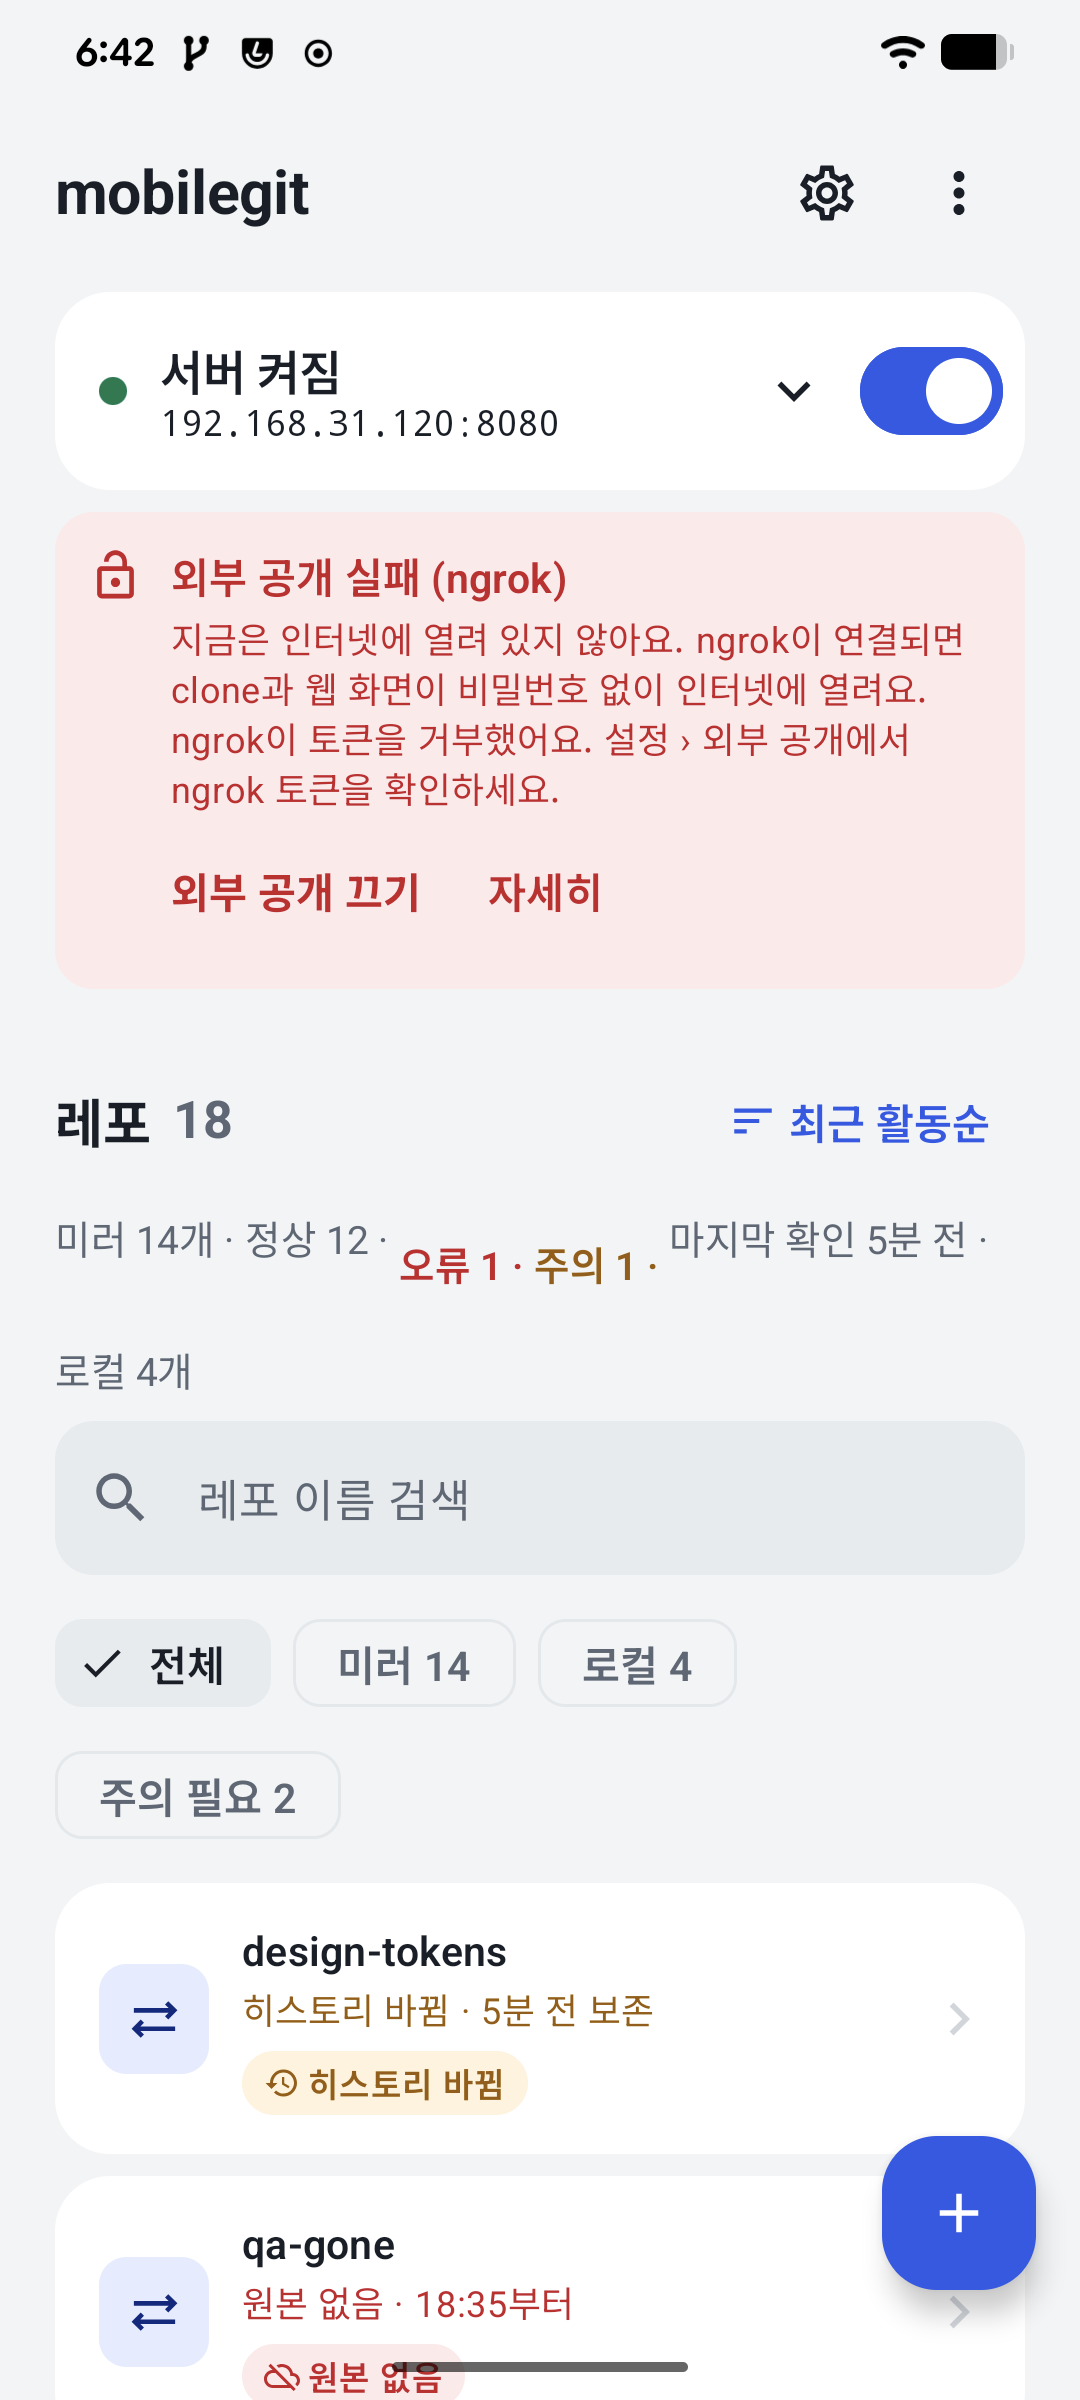
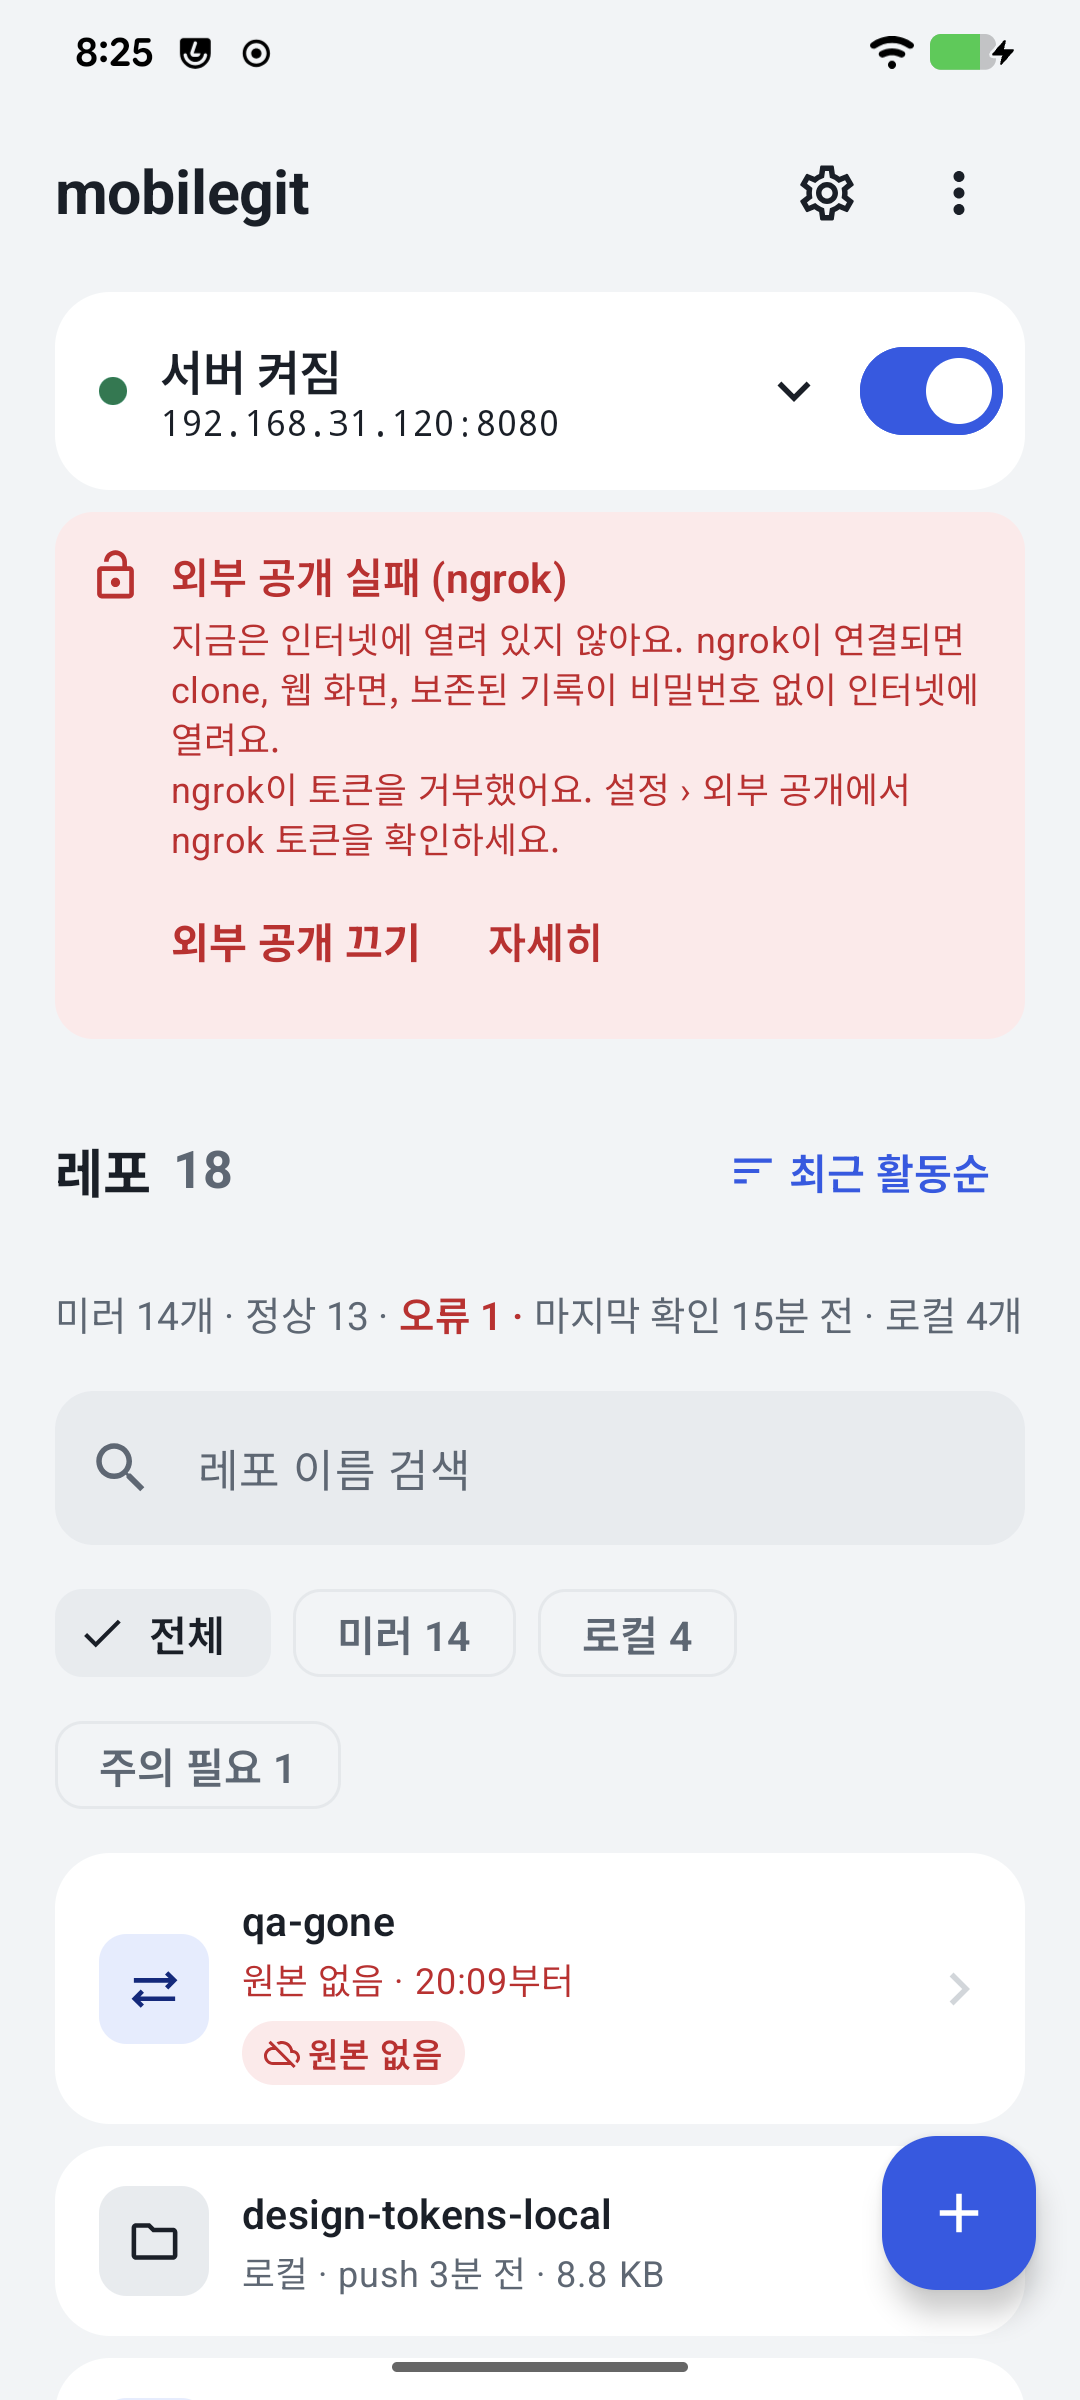
QA: 2차 코드 리뷰 반영 회귀 결과와 최종 스크린샷 갱신

diff --git a/docs/qa/round2/report.md b/docs/qa/round2/report.md
@@ -290,3 +290,43 @@ RV2-11 알림 아이콘:
 갱신한 스크린샷: `docs/qa/round2-final/screenshots/`의 01, 05, 06, 08, 19. `docs/images/screen-1.png`는 새 01로 바꿨다. screen-2(=09)와 screen-3(=20)은 화면이 바뀌지 않아 그대로 둔다.
 
 리뷰 반영 집계는 이제 통과 11 (RV2-01 포함), 부분 1 (RV2-10: 앱 200% 글꼴·대비 수치 미확인), 미해결 1 (RV2-11 알림 아이콘, 재부팅 없이 확인 불가)이다. 열린 결함은 없다.
+
+## 코드 리뷰 반영 회귀 (코어 ba3959c..063f0b5, 안드로이드 a2fc3cc, 웹 d823460)
+
+같은 기기 d418f2d1에 `installDebug`로 설치했다 (데이터 유지). 사용한 테스트 레포는 다음과 같다:
+- PC 테스트 원본의 미러 `design-tokens` (PR 브랜치 받기 켬)
+- 원본 없음용 미러 `qa-gone`
+- `design-tokens`에서 만든 로컬 레포 `design-tokens-local`
+
+셋 다 지웠다 (레포 15개, 웹 overview 미러 12 · 정상 12 · 주의 0). ngrok은 가짜 토큰 `qa-fake-token`으로만 시험했다. 끝난 뒤 settings.json은 ngrok 꺼짐, 토큰 없음, 비밀번호 요구 항상(익명 읽기 꺼짐), 포트 8080, 서버 켜짐이다. 내보내기 시험 파일은 폰에서 지웠고 adb reverse도 없앴다.
+
+| 항목 | 결과 | 근거 |
+|---|---|---|
+| R2SEC-01 ngrok 루프백 포트 | 통과 | `/proc/net`은 막혀 있어 `adb shell`에서 `nc -z`로 127.0.0.1의 임시 포트(32768~60999)를 훑어 찾았다. 앱 서버 포트는 `WWW-Authenticate: Basic realm="mobilegit"`로 확인했다. ngrok 꺼짐 + "push할 때만"일 때 결과는 다음과 같다. 그 포트로 익명 `GET /chalk.git/info/refs?service=git-upload-pack`은 401이다. 같은 요청이 와이파이 8080에서는 200이다 (push할 때만의 정상 동작). ngrok 켜짐 + 터널 실패(가짜 토큰)에서도 새 루프백 포트는 401이었다. 확인 뒤 "항상"으로 되돌렸다 |
+| 보존 기록: 배지·화면 | 통과 | 원본에서 main 강제 push, v1.1.0 태그 이동, release/1.x 삭제, refs/pull/1/head 비-fast-forward 변경 뒤 업데이트했다. 결과: 보존 3개, 상세 "히스토리 바뀜" 배지, A-15에 히스토리 바뀜·브랜치 삭제됨·태그 이동됨, 업데이트 이력 자세히에 네 변화(PR은 "PR 브랜치 바뀜 pull/1/head 5f04a9e → 96c817b") |
+| 보존 기록: 마지막 보존 시각 | 통과 | A-15를 연 뒤 배지는 사라지고 상세 "보존된 기록 3개 · 마지막 보존 20:06"은 남는다. 강제 종료 뒤 다시 열어도 같다 |
+| 보존 기록: W-05 "PR 브랜치 바뀜" | 부분 | 지금 코어는 PR 브랜치를 보존하지 않는다 (R2GIT-05, `Models.kt` 92행, 이력의 `archivedAs` null). 그래서 `/archives`에는 REVIEW 항목이 생기지 않고, W-05에는 FORCED·DELETED·TAG_MOVED 세 줄만 나온다. 웹의 REVIEW → "PR 브랜치 바뀜"(중립) 대응은 코드와 `archives.test.ts`에만 있고, 실제 데이터로는 볼 수 없었다. 앱 이력에서는 "PR 브랜치 바뀜"이 보인다 |
+| 실패 판정: 끊긴 연결 | 통과 | 원본 서버만 끄고 adb reverse 유지 → `NETWORK`, "업데이트 실패 · 네트워크 오류" |
+| 실패 판정: 진짜 404 | 통과 | `qa-gone` 원본 폴더를 숨기고 서버 켬 → `ORIGIN_GONE`, "원본 없음" |
+| 실패 판정: 원본 없음 뒤 네트워크 오류 | 통과 | 원본 없음인 `qa-gone`에서 서버를 끔(끊긴 연결)과 adb reverse 제거(연결 거부) → 둘 다 이력은 `NETWORK`인데 originStatus GONE 유지, 행 "원본 없음 · 20:09부터" |
+| 실패 판정: 가짜 로그인 페이지 | 통과 | 9418에 모든 요청에 200 `text/html` 로그인 화면을 주는 서버를 띄웠다. 본문에 일부러 "Repository not found", "401 Unauthorized"를 넣었다. 결과는 `NETWORK` (`PackProtocolException: invalid advertisement of <!doctype html>…`), 행 "업데이트 실패 · 네트워크 오류". 원본 없음이나 토큰 확인 필요가 아니다 |
+| ngrok 위험 대화상자 새 문구 | 통과 | 두 대화상자 본문에 "보존된 기록(강제 push로 지워진 커밋 포함), 원본 주소, 레포 상태도 보여요."가 더해졌다 (R2SEC-04). 취소는 저장 안 함. "비밀번호 켜고 공개"는 외부 공개 켜짐 + 항상. "비밀번호 없이 공개"는 허용. 비밀번호 요구 설명 "clone과 웹 화면(보존된 기록 포함)은…", 메인 배너 "…clone, 웹 화면, 보존된 기록이 비밀번호 없이 인터넷에 열려요.", 알림 "외부 공개 실패: ngrok 토큰 확인 필요". 샷 12~16 |
+| 로컬 레포 만들기 진행 중 시트 | 부분 | 복사해서 만들기를 누른 직후 BACK 두 번을 보냈지만 작은 레포라 바로 끝나 진행 중 상태를 화면에서 잡지 못했다. 끝난 뒤에는 `design-tokens-local`이 만들어지고 화면이 정상으로 돌아왔다. 코드(`RepoDetailScreen.kt` 578~609행)에서 진행 중에는 BACK·아래로 끌기·바깥 누르기를 막고 버튼을 끄는 것을 확인했다 |
+| 웹 800 / 1100px | 통과 | 보존된 기록: 800px은 쌓은 목록(표 0개), 1100px은 표 1개. 보존된 커밋 SHA는 글자+복사, "지금 원본"만 커밋 로그 링크 (R2WEB-09). 샷 20, 21 |
+| 웹 다크 모드·200% | 통과 | 다크(배경 rgb(17,18,21))와 200%(720px 뷰포트)에서 목록·레포 홈·보존된 기록 모두 가로 넘침 없음, 콘솔 오류 0. 200%는 목록 형태. 샷 26 |
+| 회귀: 미러 추가 | 통과 | 공유 인텐트로 주소 넣기 → 연결 확인 "브랜치·태그 5개 받기 · PR 브랜치 1개 제외" → 고급 "PR 브랜치도 받기" 켬 → 범위 줄이 "…PR 브랜치 받기"로 바뀜 → 추가 |
+| 회귀: 업데이트 | 통과 | 위 보존 기록·실패 판정 시나리오 |
+| 회귀: clone·push | 통과 | PC에서 `design-tokens-local` clone, 커밋 push 후 서버 main이 같은 SHA. 미러로 push하면 읽기 전용 안내로 거부 |
+| 회귀: 웹 보기 | 통과 | 목록, 레포 홈, 보존된 기록, 800·1100·다크·200% |
+| 회귀: 내보내기 저장과 알림 | 통과 | 레포별 git bundle을 Download/qa에 저장하면 파일이 생긴다 (3.5 KB). 작은 파일이라 홈으로 나가기 전에 끝나 알림은 없었다. 전체 백업(3.9 MB)은 저장 직후 홈으로 나가면 "내보내기 완료 / qa 폴더에 mobilegit-backup-20261025.zip 파일로 저장했어요. 암호화되지 않은 파일이에요." 알림이 뜬다 |
+
+관찰:
+- 미러로 push했을 때 git이 보여 주는 거절 문구는 영어이고 "Fork it in the mobilegit app to push."라고 쓴다. 앱 용어("로컬 레포 만들기")와 다르다. git 프로토콜 오류 문자열이라 1차부터 그대로다.
+- 확인 도중 실수로 설정 화면에서 탭이 몇 번 들어갔다. 설정 값은 settings.json으로 다시 봤고 바뀐 것이 없었다.
+
+갱신한 스크린샷 (`docs/qa/round2-final/screenshots/`):
+- 바꿈: 12~16(새 문구), 20(SHA 표시), 21(800px 목록으로 바꾸고 이름도 `21-web-archives-800.png`로 변경)
+- 추가: 25(PR 브랜치 바뀜 이력), 26(웹 다크 모드)
+- `docs/images/screen-3.png`는 새 20으로 바꿨다. screen-1(01)과 screen-2(09)는 화면이 바뀌지 않아 그대로 둔다.
+
+집계: 통과 15, 부분 2 (W-05의 PR 브랜치 바뀜은 실데이터로 생기지 않음, 진행 중 시트는 너무 빨라 코드로만 확인), 실패 0. 새 결함은 없다.

diff --git a/docs/qa/round2-final/screenshots/README.md b/docs/qa/round2-final/screenshots/README.md
@@ -1,6 +1,6 @@
 # 2차 리뷰 반영 뒤 대표 스크린샷
 
-기기 d418f2d1 (393dp 폭, 라이트 모드), 빌드 7fe5bde, 01·05·06·08·19는 30f70e8. 오류·주의·지연·멈춤 상태는 PC 테스트 원본(`origin_server.py`)으로 만든 테스트 미러 `design-tokens`, `qa-gone`과 meta 시각 조정으로 만들었다. 테스트 레포는 모두 지웠고 meta는 되돌렸다. ngrok 화면은 가짜 토큰 `qa-fake-token`으로 만든 실패 상태다. 와이파이 이름이 보이는 빠른 설정 화면은 넣지 않았다 (18번은 알림 부분만 잘라 냄).
+기기 d418f2d1 (393dp 폭, 라이트 모드), 빌드 7fe5bde, 01·05·06·08·19는 30f70e8, 12~16·20·21·25·26은 d823460. 오류·주의·지연·멈춤 상태는 PC 테스트 원본(`origin_server.py`)으로 만든 테스트 미러 `design-tokens`, `qa-gone`과 meta 시각 조정으로 만들었다. 테스트 레포는 모두 지웠고 meta는 되돌렸다. ngrok 화면은 가짜 토큰 `qa-fake-token`으로 만든 실패 상태다. 와이파이 이름이 보이는 빠른 설정 화면은 넣지 않았다 (18번은 알림 부분만 잘라 냄).
 
 | 파일 | 보여 주는 것 | 기준 |
 |---|---|---|
@@ -15,16 +15,18 @@
 | 09-a15-archives.png | "design-tokens 보존된 기록", 절대 시각만 | RV2-01 |
 | 10-settings-auth-options.png | 비밀번호 요구 "항상 / push할 때만 / 안 함", 경로별 보안 색 점 옆 글자(주의·안전·위험) | RV2-02, RV2-10 |
 | 11-settings-public-section.png | "외부 공개 (ngrok)" 섹션이 연결 경로별 보안 바로 아래 | RV2-04 |
-| 12-dialog-turn-on-public.png | push할 때만에서 외부 공개 켜기: "비밀번호 없이 외부 공개할까요?" / 비밀번호 켜고 공개 / 비밀번호 없이 공개 | RV2-03 |
-| 13-dialog-lower-auth-while-public.png | 외부 공개 중 비밀번호 요구 낮추기: "외부 공개 중에 비밀번호 요구를 줄일까요?" / 외부 공개 끄고 바꾸기 / 비밀번호 없이 공개 | RV2-03 |
-| 14-settings-pending-warning.png | 터널 실패 때 비밀번호 요구 아래 "ngrok이 연결되면 비밀번호 없이 인터넷에 열려요" | RV2-03 |
+| 12-dialog-turn-on-public.png | push할 때만에서 외부 공개 켜기: "비밀번호 없이 외부 공개할까요?", 본문에 "보존된 기록(강제 push로 지워진 커밋 포함), 원본 주소, 레포 상태도 보여요" (R2SEC-04) | RV2-03, R2SEC-04 |
+| 13-dialog-lower-auth-while-public.png | 외부 공개 중 비밀번호 요구 낮추기: "외부 공개 중에 비밀번호 요구를 줄일까요?", 같은 노출 범위 문장 | RV2-03, R2SEC-04 |
+| 14-settings-pending-warning.png | 터널 실패 때 비밀번호 요구 설명 "clone과 웹 화면(보존된 기록 포함)은…"과 "ngrok이 연결되면 비밀번호 없이 인터넷에 열려요" | RV2-03, R2SEC-04 |
 | 15-settings-public-failed.png | "외부 공개 (ngrok) · 실패"와 같은 경고 | RV2-03 |
-| 16-main-public-failed-banner.png | 메인 배너 "외부 공개 실패 (ngrok)" · "지금은 인터넷에 열려 있지 않아요…" | RV2-03 |
+| 16-main-public-failed-banner.png | 메인 배너 "외부 공개 실패 (ngrok)" · "…clone, 웹 화면, 보존된 기록이 비밀번호 없이 인터넷에 열려요." | RV2-03, R2SEC-04 |
 | 17-bulk-mirror.png | 일괄 미러: "아카이브된 레포 숨기기", 마지막 행이 하단 바에 가리지 않음 | RV2-01, RV2-05 |
 | 18-notification-icon-robot.png | 알림 창에 아직 로봇 아이콘 (원인은 보고서) | RV2-11 |
 | 19-delete-origin-gone-warning.png | 삭제 대화상자 "이 레포는 원본이 없어 지우면 다시 받지 못할 수 있어요" | QA2-11 |
-| 20-web-archives.png | 웹 보존된 기록 표, 날짜 `2026.10.25 18:37`, fetch 명령 한 줄 | RV2-08 |
-| 21-web-archives-mobile.png | 390px 카드 전환, 명령 블록 가로 스크롤 | RV2-08 |
+| 20-web-archives.png | 웹 보존된 기록 표(1100px): 보존된 커밋 SHA는 글자+복사, 지금 원본만 링크, fetch 명령 한 줄 | RV2-08, R2WEB-01, R2WEB-09 |
+| 21-web-archives-800.png | 800px에서는 표 대신 쌓은 목록 | R2WEB-01 |
 | 22-web-home-200pct.png | 200% 확대(뷰포트 720px)에서 레포 홈, 정보 패널 "보존된 기록 3개 보기" | RV2-10, 개수 일치 |
 | 23-web-lfs-pointer.png | LFS 포인터 레포: 파일 목록 "LFS 포인터" 표시와 안내 | RV2-09, WR-7 |
 | 24-web-repo-list-summary.png | 웹 목록 요약 "미러 14개 · 정상 12 · 오류 1 · 주의 1 …" | CR-11 |
+| 25-history-pr-branch-change.png | 업데이트 이력 자세히: 히스토리 바뀜·브랜치 삭제됨·PR 브랜치 바뀜·태그 이동됨, PR 브랜치는 보존하지 않아 "3개를 보존" | R2GIT-05 |
+| 26-web-archives-dark.png | 다크 모드 보존된 기록 표 | R2WEB-01 |
